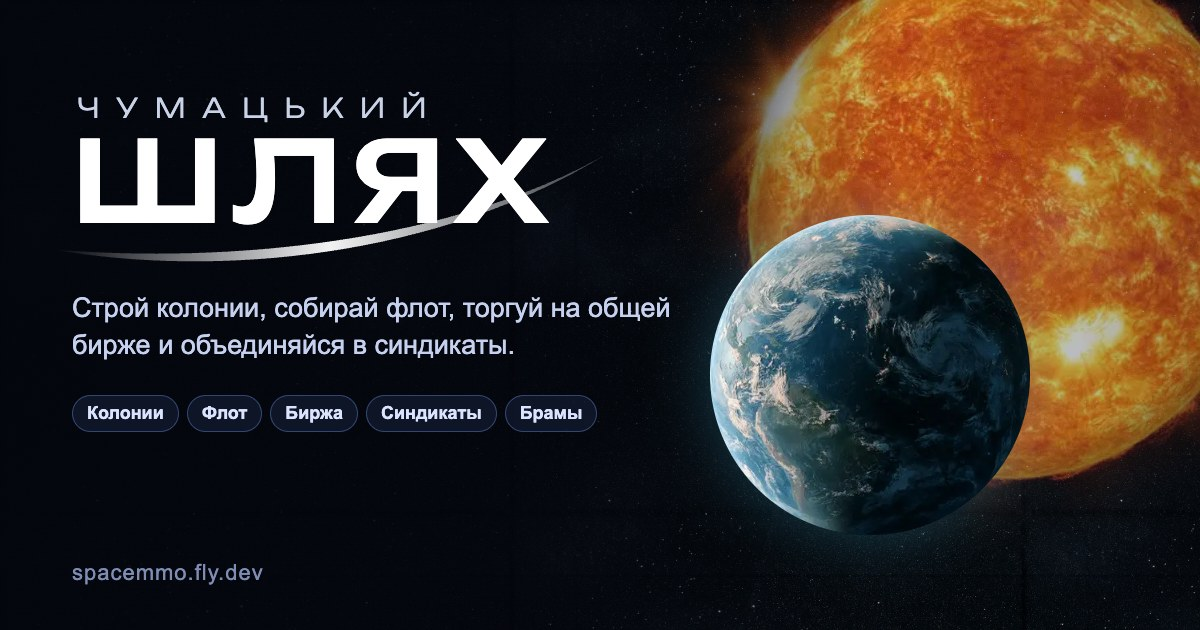
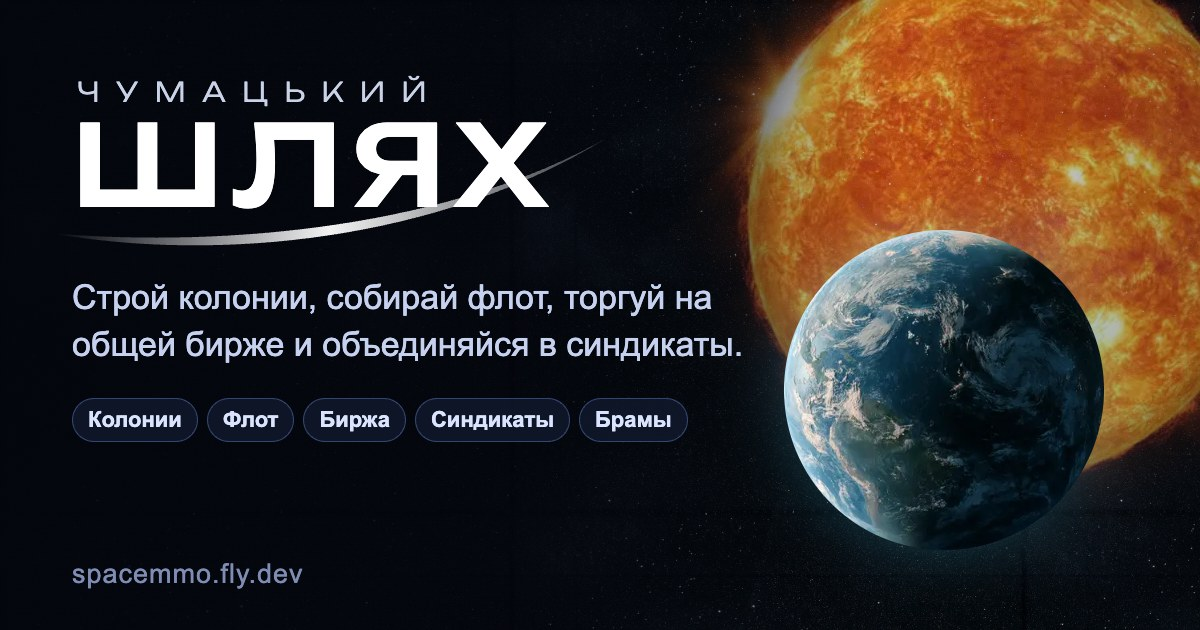
fix: превью ссылки — крупнее текст на картинке, название не повторяется в заголовке

Changed region(s): [[0.0617, 0.3317, 0.925, 0.8746], [0.0617, 0.1206, 0.4933, 0.4222], [0.0617, 0.8746, 0.2467, 0.9349]]

diff --git a/public/index.html b/public/index.html
@@ -9,17 +9,19 @@
     Картинка и адрес — абсолютные: сборщик превью открывает страницу без
     браузера и относительный путь разрешить не умеет. Картинка — JPEG
     1200×630: webp не все сборщики показывают, а 1.91:1 — формат большой
-    карточки. Telegram кеширует превью; после правки обновить его
-    можно ботом @WebpageBot.
+    карточки. Название в заголовок превью не входит: Telegram ставит
+    og:site_name строкой над заголовком, и имя повторялось бы дважды.
+    Telegram кеширует и страницу, и картинку: меняя картинку, меняй
+    ее `?v=` в адресе, иначе он покажет старую.
   -->
   <meta name="description" content="Чумацький Шлях — браузерная MMO-стратегия в космосе: строй колонии, собирай флот, торгуй на общей бирже, объединяйся в синдикаты и прыгай между системами через Брамы. Играй с телефона и компьютера." />
   <meta property="og:type" content="website" />
   <meta property="og:site_name" content="Чумацький Шлях" />
   <meta property="og:locale" content="ru_RU" />
   <meta property="og:url" content="https://spacemmo.fly.dev/" />
-  <meta property="og:title" content="Чумацький Шлях — космическая стратегия в браузере" />
+  <meta property="og:title" content="Космическая стратегия в браузере" />
   <meta property="og:description" content="Строй колонии, собирай флот, торгуй на общей бирже, объединяйся в синдикаты и прыгай между системами через Брамы. Играй с телефона и компьютера." />
-  <meta property="og:image" content="https://spacemmo.fly.dev/og-image.jpg" />
+  <meta property="og:image" content="https://spacemmo.fly.dev/og-image.jpg?v=3" />
   <meta property="og:image:type" content="image/jpeg" />
   <meta property="og:image:width" content="1200" />
   <meta property="og:image:height" content="630" />
@@ -27,7 +29,7 @@
   <meta name="twitter:card" content="summary_large_image" />
   <meta name="twitter:title" content="Чумацький Шлях — космическая стратегия в браузере" />
   <meta name="twitter:description" content="Строй колонии, собирай флот, торгуй на общей бирже и объединяйся в синдикаты." />
-  <meta name="twitter:image" content="https://spacemmo.fly.dev/og-image.jpg" />
+  <meta name="twitter:image" content="https://spacemmo.fly.dev/og-image.jpg?v=3" />
   <!-- Шрифт фирменной надписи: широкий гротеск с полной кириллицей (включая і). Два начертания и только для логотипа. -->
   <link rel="preconnect" href="https://fonts.googleapis.com" />
   <link rel="preconnect" href="https://fonts.gstatic.com" crossorigin />
